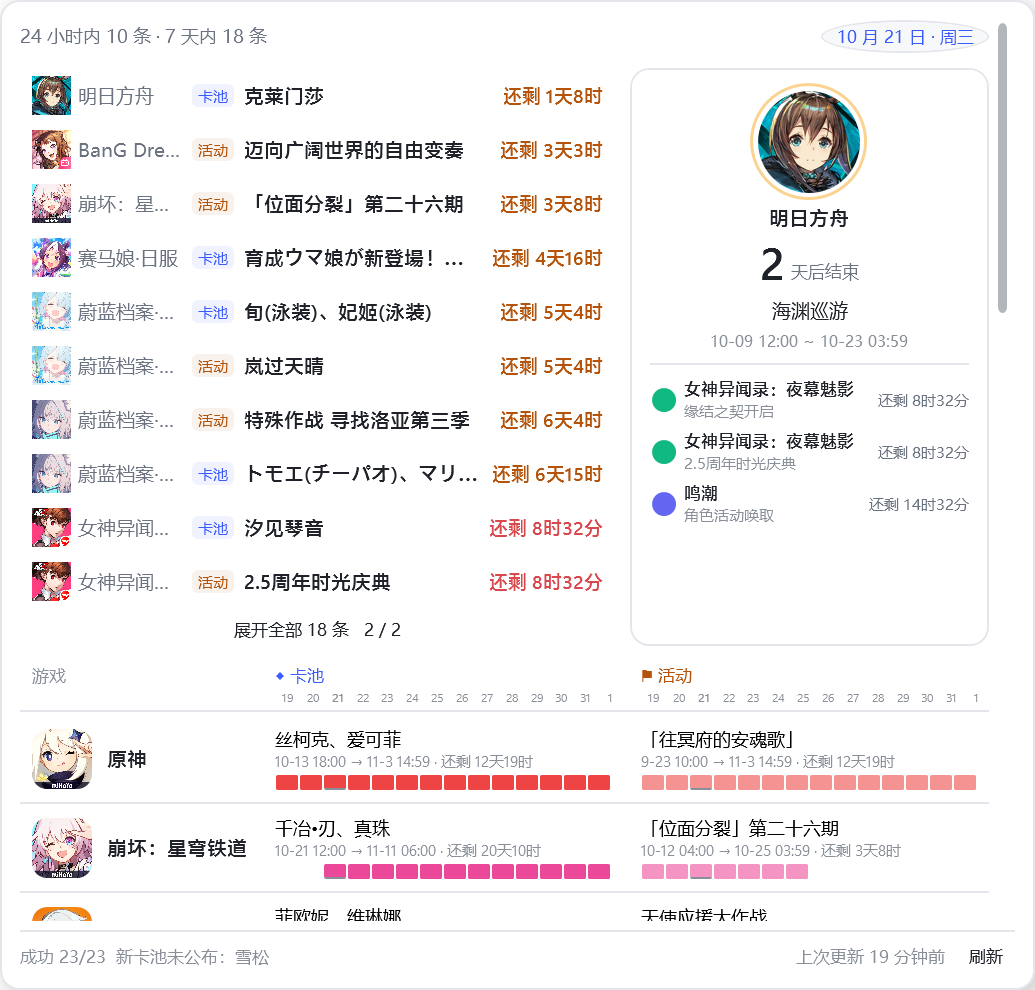
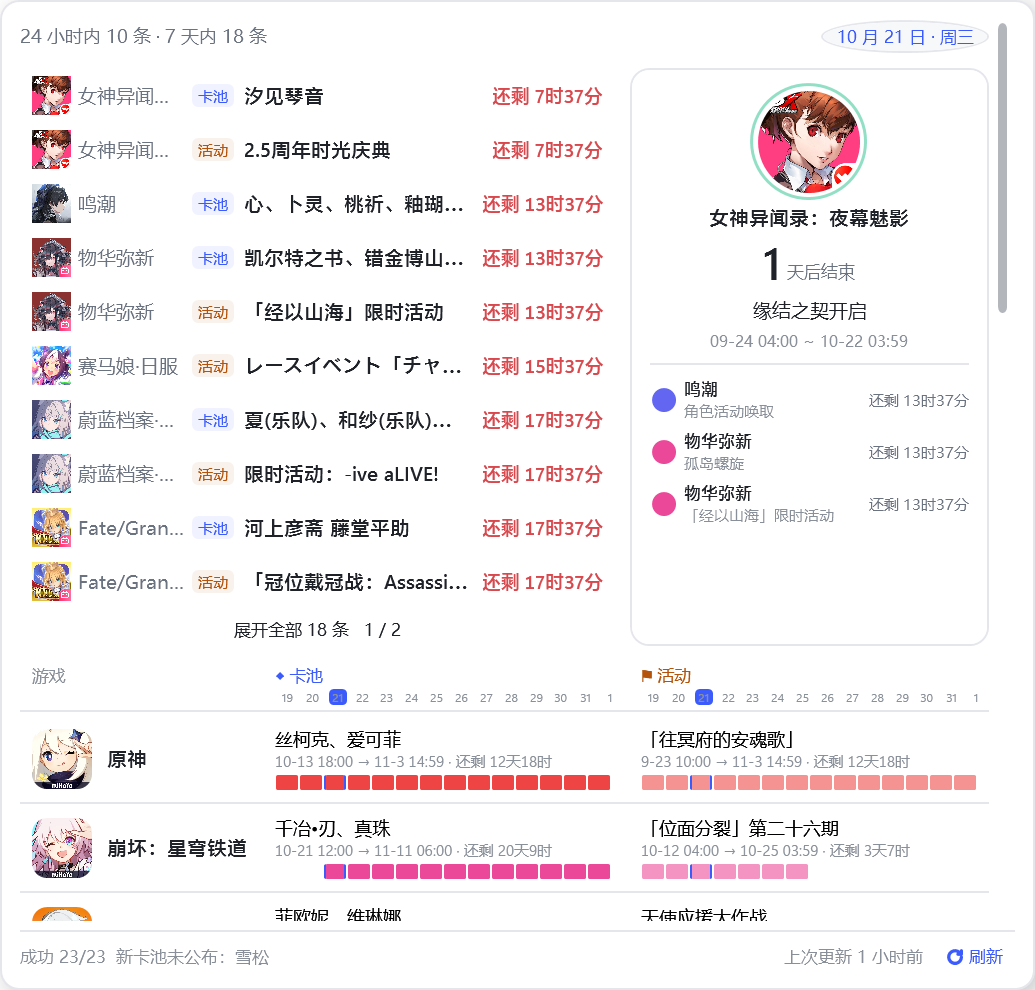
style: v0.1.25 字体、图标、开关与当天提示
- 字体 Ideal；设置页胶囊 Switch；垃圾桶/chevron/刷新图标
- 迷你条当天数字胶囊 + 条形当天列描边
- 修复 Window.RenderTransform 导致面板打不开的严重 bug
- 更新浅/深截图与视觉回归；版本 0.1.25

验证：dotnet build 0 警告 0 错误；npm test 34/34；npm run check 通过

diff --git a/src/GachaCalendar/Views/ScheduleView.xaml b/src/GachaCalendar/Views/ScheduleView.xaml
@@ -1,9 +1,9 @@
-<UserControl x:Class="GachaCalendar.Views.ScheduleView"
+<UserControl x:Class="GachaCalendar.Views.ScheduleView"
 			 xmlns="http://schemas.microsoft.com/winfx/2006/xaml/presentation"
 			 xmlns:x="http://schemas.microsoft.com/winfx/2006/xaml"
 			 UseLayoutRounding="True"
 			 SnapsToDevicePixels="True"
-			 TextOptions.TextFormattingMode="Display"
+			 TextOptions.TextFormattingMode="Ideal"
 			 TextOptions.TextRenderingMode="ClearType"
 			 FontFamily="Segoe UI Variable Text, Microsoft YaHei UI, Segoe UI">
 	<UserControl.Resources>
@@ -352,19 +352,31 @@
 						</ItemsControl.ItemsPanel>
 						<ItemsControl.ItemTemplate>
 							<DataTemplate>
-								<TextBlock Text="{Binding Day}" FontSize="8" Foreground="{DynamicResource FgFaint}" HorizontalAlignment="Center">
-									<TextBlock.Style>
-										<Style TargetType="TextBlock">
-											<Setter Property="FontWeight" Value="Normal" />
+								<Border HorizontalAlignment="Center" CornerRadius="3" Padding="2,0">
+									<Border.Style>
+										<Style TargetType="Border">
+											<Setter Property="Background" Value="Transparent" />
 											<Style.Triggers>
 												<DataTrigger Binding="{Binding Today}" Value="True">
-													<Setter Property="FontWeight" Value="SemiBold" />
-													<Setter Property="Foreground" Value="{DynamicResource Fg}" />
+													<Setter Property="Background" Value="{DynamicResource Accent}" />
 												</DataTrigger>
 											</Style.Triggers>
 										</Style>
-									</TextBlock.Style>
-								</TextBlock>
+									</Border.Style>
+									<TextBlock Text="{Binding Day}" FontSize="8" Foreground="{DynamicResource FgFaint}">
+										<TextBlock.Style>
+											<Style TargetType="TextBlock">
+												<Setter Property="FontWeight" Value="Normal" />
+												<Style.Triggers>
+													<DataTrigger Binding="{Binding Today}" Value="True">
+														<Setter Property="FontWeight" Value="SemiBold" />
+														<Setter Property="Foreground" Value="White" />
+													</DataTrigger>
+												</Style.Triggers>
+											</Style>
+										</TextBlock.Style>
+									</TextBlock>
+								</Border>
 							</DataTemplate>
 						</ItemsControl.ItemTemplate>
 					</ItemsControl>
@@ -374,19 +386,31 @@
 						</ItemsControl.ItemsPanel>
 						<ItemsControl.ItemTemplate>
 							<DataTemplate>
-								<TextBlock Text="{Binding Day}" FontSize="8" Foreground="{DynamicResource FgFaint}" HorizontalAlignment="Center">
-									<TextBlock.Style>
-										<Style TargetType="TextBlock">
-											<Setter Property="FontWeight" Value="Normal" />
+								<Border HorizontalAlignment="Center" CornerRadius="3" Padding="2,0">
+									<Border.Style>
+										<Style TargetType="Border">
+											<Setter Property="Background" Value="Transparent" />
 											<Style.Triggers>
 												<DataTrigger Binding="{Binding Today}" Value="True">
-													<Setter Property="FontWeight" Value="SemiBold" />
-													<Setter Property="Foreground" Value="{DynamicResource Fg}" />
+													<Setter Property="Background" Value="{DynamicResource Accent}" />
 												</DataTrigger>
 											</Style.Triggers>
 										</Style>
-									</TextBlock.Style>
-								</TextBlock>
+									</Border.Style>
+									<TextBlock Text="{Binding Day}" FontSize="8" Foreground="{DynamicResource FgFaint}">
+										<TextBlock.Style>
+											<Style TargetType="TextBlock">
+												<Setter Property="FontWeight" Value="Normal" />
+												<Style.Triggers>
+													<DataTrigger Binding="{Binding Today}" Value="True">
+														<Setter Property="FontWeight" Value="SemiBold" />
+														<Setter Property="Foreground" Value="White" />
+													</DataTrigger>
+												</Style.Triggers>
+											</Style>
+										</TextBlock.Style>
+									</TextBlock>
+								</Border>
 							</DataTemplate>
 						</ItemsControl.ItemTemplate>
 					</ItemsControl>
@@ -468,8 +492,8 @@
 																		<Setter Property="Background" Value="{Binding Color}" />
 																	</DataTrigger>
 																	<DataTrigger Binding="{Binding Today}" Value="True">
-																		<Setter Property="BorderBrush" Value="{DynamicResource FgFaint}" />
-																		<Setter Property="BorderThickness" Value="0,0,0,1" />
+																		<Setter Property="BorderBrush" Value="{DynamicResource Accent}" />
+																		<Setter Property="BorderThickness" Value="1,0,1,0" />
 																	</DataTrigger>
 																</Style.Triggers>
 															</Style>
@@ -522,8 +546,8 @@
 																		<Setter Property="Background" Value="{Binding Color}" />
 																	</DataTrigger>
 																	<DataTrigger Binding="{Binding Today}" Value="True">
-																		<Setter Property="BorderBrush" Value="{DynamicResource FgFaint}" />
-																		<Setter Property="BorderThickness" Value="0,0,0,1" />
+																		<Setter Property="BorderBrush" Value="{DynamicResource Accent}" />
+																		<Setter Property="BorderThickness" Value="1,0,1,0" />
 																	</DataTrigger>
 																</Style.Triggers>
 															</Style>
@@ -601,8 +625,15 @@
 						   TextTrimming="CharacterEllipsis" VerticalAlignment="Center" />
 				<TextBlock Grid.Column="1" Text="{Binding UpdatedAgo}" FontSize="11" Foreground="{DynamicResource FgFaint}"
 						   VerticalAlignment="Center" Margin="8,0" />
-				<Button Grid.Column="2" Content="刷新" Style="{StaticResource SchedLinkButton}" Click="OnRefresh"
-						Foreground="{DynamicResource Accent}" />
+				<Button Grid.Column="2" Style="{StaticResource SchedLinkButton}" Click="OnRefresh"
+						AutomationProperties.Name="刷新" ToolTip="刷新">
+					<StackPanel Orientation="Horizontal">
+						<Path Data="M21 12a9 9 0 1 1-2.64-6.36L21 8 M21 3 L21 8 L16 8"
+							  Stroke="{DynamicResource Accent}" StrokeThickness="2.2" StrokeStartLineCap="Round"
+							  StrokeEndLineCap="Round" StrokeLineJoin="Round" Width="11" Height="11" Stretch="Uniform" />
+						<TextBlock Text="刷新" Foreground="{DynamicResource Accent}" Margin="4,0,0,0" VerticalAlignment="Center" />
+					</StackPanel>
+				</Button>
 			</Grid>
 		</Border>
 	</Grid>

diff --git a/src/GachaCalendar/Views/SettingsWindow.xaml b/src/GachaCalendar/Views/SettingsWindow.xaml
@@ -1,4 +1,4 @@
-<Window x:Class="GachaCalendar.Views.SettingsWindow"
+<Window x:Class="GachaCalendar.Views.SettingsWindow"
 		xmlns="http://schemas.microsoft.com/winfx/2006/xaml/presentation"
 		xmlns:x="http://schemas.microsoft.com/winfx/2006/xaml"
 		Title="设置 — 二游日历"
@@ -7,7 +7,7 @@
 		WindowStartupLocation="CenterScreen"
 		UseLayoutRounding="True"
 		SnapsToDevicePixels="True"
-		TextOptions.TextFormattingMode="Display"
+		TextOptions.TextFormattingMode="Ideal"
 		TextOptions.TextRenderingMode="ClearType"
 		Background="{DynamicResource PanelBg}"
 		Foreground="{DynamicResource Fg}"
@@ -169,6 +169,40 @@
 			</Setter>
 		</Style>
 
+		<Style x:Key="SwitchCheckBox" TargetType="CheckBox">
+			<Setter Property="Foreground" Value="{DynamicResource Fg}" />
+			<Setter Property="FontSize" Value="12.5" />
+			<Setter Property="Template">
+				<Setter.Value>
+					<ControlTemplate TargetType="CheckBox">
+						<StackPanel Orientation="Horizontal" Background="Transparent">
+							<Border x:Name="Track" Width="38" Height="20" CornerRadius="10"
+									Background="{DynamicResource PanelBorder}" BorderBrush="{DynamicResource PanelBorder}"
+									BorderThickness="1">
+								<Ellipse x:Name="Thumb" Width="14" Height="14" Fill="{DynamicResource PanelBg}"
+										 HorizontalAlignment="Left" VerticalAlignment="Center" Margin="2,0" />
+							</Border>
+							<ContentPresenter Margin="8,0,0,0" VerticalAlignment="Center" RecognizesAccessKey="True" />
+						</StackPanel>
+						<ControlTemplate.Triggers>
+							<Trigger Property="IsMouseOver" Value="True">
+								<Setter TargetName="Track" Property="BorderBrush" Value="{DynamicResource Accent}" />
+							</Trigger>
+							<Trigger Property="IsChecked" Value="True">
+								<Setter TargetName="Track" Property="Background" Value="{DynamicResource Accent}" />
+								<Setter TargetName="Track" Property="BorderBrush" Value="{DynamicResource Accent}" />
+								<Setter TargetName="Thumb" Property="Fill" Value="White" />
+								<Setter TargetName="Thumb" Property="HorizontalAlignment" Value="Right" />
+							</Trigger>
+							<Trigger Property="IsEnabled" Value="False">
+								<Setter Property="Opacity" Value="0.45" />
+							</Trigger>
+						</ControlTemplate.Triggers>
+					</ControlTemplate>
+				</Setter.Value>
+			</Setter>
+		</Style>
+
 		<Style x:Key="SettingsThinScrollBar" TargetType="ScrollBar">
 			<Setter Property="Width" Value="8" />
 			<Setter Property="Background" Value="Transparent" />
@@ -246,7 +280,7 @@
 				<!-- 自动刷新 -->
 				<Border Style="{StaticResource Card}">
 					<StackPanel>
-						<CheckBox x:Name="AutoRefreshCheck" Content="自动刷新" FontSize="12"
+						<CheckBox x:Name="AutoRefreshCheck" Content="自动刷新" Style="{StaticResource SwitchCheckBox}"
 								  Checked="OnAutoRefreshChanged" Unchecked="OnAutoRefreshChanged" />
 						<StackPanel Orientation="Horizontal" Margin="0,10,0,0">
 							<TextBlock Text="刷新频率" FontSize="12" VerticalAlignment="Center" />
@@ -261,7 +295,7 @@
 				<!-- 实验特性 -->
 				<Border Style="{StaticResource Card}" BorderBrush="{DynamicResource Accent}" BorderThickness="1">
 					<StackPanel>
-						<CheckBox x:Name="NewPanelCheck" Content="实验性新版 UI（日程视图）" FontSize="12"
+						<CheckBox x:Name="NewPanelCheck" Content="实验性新版 UI（日程视图）" Style="{StaticResource SwitchCheckBox}"
 								  Checked="OnNewPanelChanged" Unchecked="OnNewPanelChanged" />
 						<TextBlock Style="{StaticResource Hint}" Margin="0,6,0,0"
 								   Text="启用 DSH 实验版：日期胶囊、近期紧迫列表、时间轴日程表。默认关闭。" />

diff --git a/src/GachaCalendar/Views/FlyoutWindow.xaml b/src/GachaCalendar/Views/FlyoutWindow.xaml
@@ -1,4 +1,4 @@
-<Window x:Class="GachaCalendar.Views.FlyoutWindow"
+<Window x:Class="GachaCalendar.Views.FlyoutWindow"
 		xmlns="http://schemas.microsoft.com/winfx/2006/xaml/presentation"
 		xmlns:x="http://schemas.microsoft.com/winfx/2006/xaml"
 		xmlns:controls="clr-namespace:GachaCalendar.Controls"
@@ -14,7 +14,7 @@
 		WindowStartupLocation="Manual"
 		UseLayoutRounding="True"
 		SnapsToDevicePixels="True"
-		TextOptions.TextFormattingMode="Display"
+		TextOptions.TextFormattingMode="Ideal"
 		TextOptions.TextRenderingMode="ClearType"
 		FontFamily="Segoe UI Variable Text, Microsoft YaHei UI, Segoe UI">
 	<Window.Resources>
@@ -141,7 +141,8 @@
 					<TextBlock Text="二游日历" FontSize="13" FontWeight="SemiBold" VerticalAlignment="Center" />
 					<StackPanel Grid.Column="1" Orientation="Horizontal">
 						<Button Style="{StaticResource DshRefreshButton}" IsEnabled="{Binding CanRefresh}"
-								ToolTip="{Binding RefreshTip}" Click="OnRefresh" Margin="0,0,4,0">
+								ToolTip="{Binding RefreshTip}" Click="OnRefresh" Margin="0,0,4,0"
+								AutomationProperties.Name="刷新">
 							<Path x:Name="RefreshIcon" Data="M21 12a9 9 0 1 1-2.64-6.36L21 8 M21 3 L21 8 L16 8"
 								  Stroke="{DynamicResource Fg}" StrokeThickness="2.2" StrokeStartLineCap="Round"
 								  StrokeEndLineCap="Round" StrokeLineJoin="Round" Width="13" Height="13" Stretch="Uniform"

diff --git a/src/GachaCalendar/Views/DockStripWindow.xaml b/src/GachaCalendar/Views/DockStripWindow.xaml
@@ -1,4 +1,4 @@
-<Window x:Class="GachaCalendar.Views.DockStripWindow"
+<Window x:Class="GachaCalendar.Views.DockStripWindow"
 		xmlns="http://schemas.microsoft.com/winfx/2006/xaml/presentation"
 		xmlns:x="http://schemas.microsoft.com/winfx/2006/xaml"
 		Title="二游日历"
@@ -14,7 +14,7 @@
 		WindowStartupLocation="Manual"
 		UseLayoutRounding="True"
 		SnapsToDevicePixels="True"
-		TextOptions.TextFormattingMode="Display"
+		TextOptions.TextFormattingMode="Ideal"
 		TextOptions.TextRenderingMode="ClearType"
 		FontFamily="Segoe UI Variable Text, Microsoft YaHei UI, Segoe UI"
 		Focusable="False">

diff --git a/src/GachaCalendar/Views/SettingsWindow.xaml.cs b/src/GachaCalendar/Views/SettingsWindow.xaml.cs
@@ -214,14 +214,15 @@ public partial class SettingsWindow : Window
 			grid.Children.Add(eventCombo);
 
 			var actions = new StackPanel { Orientation = Orientation.Horizontal, HorizontalAlignment = HorizontalAlignment.Center };
-			var up = SmallButton("↑", "上移");
+			var up = SmallIconButton("M2,8 L7,3 L12,8", "上移", (Brush)FindResource("Fg"));
 			up.IsEnabled = index > 0;
 			up.Click += async (_, _) => await MoveAsync(entry.Id, -1);
-			var down = SmallButton("↓", "下移");
+			var down = SmallIconButton("M2,4 L7,9 L12,4", "下移", (Brush)FindResource("Fg"));
 			down.IsEnabled = index < _entries.Count - 1;
 			down.Click += async (_, _) => await MoveAsync(entry.Id, 1);
-			var delete = SmallButton("删", "删除");
-			delete.Foreground = (Brush)FindResource("Danger");
+			var delete = SmallIconButton(
+				"M4,5 H16 M7,5 V3 H13 V5 M6,5 L7,18 H13 L14,5 M9,8 V15 M12,8 V15",
+				"删除", (Brush)FindResource("Danger"));
 			delete.Click += async (_, _) =>
 			{
 				await RunWriteAsync(async () =>
@@ -735,7 +736,7 @@ public partial class SettingsWindow : Window
 		return (Brush)new BrushConverter().ConvertFromString(palette[hash % palette.Length])!;
 	}
 
-	private Button SmallButton(string content, string tooltip)	{
+	private Button SmallButton(object content, string tooltip)	{
 		var button = new Button
 		{
 			Content = content,
@@ -745,7 +746,25 @@ public partial class SettingsWindow : Window
 			MinWidth = 24,
 			Padding = new Thickness(4, 0, 4, 0),
 		};
+		System.Windows.Automation.AutomationProperties.SetName(button, tooltip);
 		return button;
+	}
+
+	private Button SmallIconButton(string data, string tooltip, Brush stroke)
+	{
+		var icon = new System.Windows.Shapes.Path
+		{
+			Data = System.Windows.Media.Geometry.Parse(data),
+			Stroke = stroke,
+			StrokeThickness = 1.5,
+			StrokeStartLineCap = PenLineCap.Round,
+			StrokeEndLineCap = PenLineCap.Round,
+			StrokeLineJoin = PenLineJoin.Round,
+			Width = 14,
+			Height = 14,
+			Stretch = Stretch.Uniform,
+		};
+		return SmallButton(icon, tooltip);
 	}
 
 	private static bool IsCustomMode(string? value) =>

diff --git a/src/GachaCalendar/Views/FlyoutWindow.xaml.cs b/src/GachaCalendar/Views/FlyoutWindow.xaml.cs
@@ -83,13 +83,12 @@ public partial class FlyoutWindow : Window
 	{
 		Height = Math.Min(660, Math.Max(360, SystemParameters.WorkArea.Height * 0.72));
 		Opacity = 0;
-		var slide = new TranslateTransform(0, 8);
-		RenderTransform = slide;
 		Show();
 		Activate();
-		var ease = new QuadraticEase { EasingMode = EasingMode.EaseOut };
-		BeginAnimation(OpacityProperty, new DoubleAnimation(0, 1, TimeSpan.FromMilliseconds(180)) { EasingFunction = ease });
-		slide.BeginAnimation(TranslateTransform.YProperty, new DoubleAnimation(8, 0, TimeSpan.FromMilliseconds(180)) { EasingFunction = ease });
+		BeginAnimation(OpacityProperty, new DoubleAnimation(0, 1, TimeSpan.FromMilliseconds(180))
+		{
+			EasingFunction = new QuadraticEase { EasingMode = EasingMode.EaseOut },
+		});
 		Dispatcher.BeginInvoke(DispatcherPriority.Loaded, new Action(() =>
 		{
 			UpdateLayout();

diff --git a/docs/04-路线图.md b/docs/04-路线图.md
@@ -242,7 +242,16 @@ Fluent/DSH 风格外观已列入 [BACKLOG.md](../BACKLOG.md)。
 - [x] 更新设置浅/深截图与视觉回归
 - [ ] 主面板字重/行距继续贴近 DSH
 
-## v0.1.25 · 任务栏体验打磨
+## v0.1.25 · 字体、图标、开关与当天提示（2026-10-21）
+
+- [x] 字体渲染切到 Ideal，低 DPI 更柔和
+- [x] 设置页胶囊 Switch
+- [x] 删除垃圾桶 / 上下移 chevron / newPanel 刷新图标
+- [x] 迷你条当天数字胶囊 + 条形当天列描边
+- [x] 修复 Window.RenderTransform 导致面板打不开的严重 bug
+- [x] 更新浅/深截图与视觉回归
+
+## v0.1.26 · 任务栏体验打磨
 
 - [ ] 多显示器：主屏 / 每屏一份（设置项）
 - [ ] 任务栏自动隐藏时跟随（贴屏幕边缘而非消失）
@@ -252,7 +261,7 @@ Fluent/DSH 风格外观已列入 [BACKLOG.md](../BACKLOG.md)。
 - [ ] 点击外部关闭面板、Esc、快捷键（可选 Win+Alt+G）
 - [ ] 电源/锁屏/睡眠恢复后的任务栏重定位
 
-## v0.1.26 · 分发工程化
+## v0.1.27 · 分发工程化
 
 - [ ] `publish` 脚本：自包含 single-file zip + 框架依赖 zip
 - [ ] 安装包（Inno Setup 或 MSIX）：开始菜单、卸载清理自启项
@@ -261,7 +270,7 @@ Fluent/DSH 风格外观已列入 [BACKLOG.md](../BACKLOG.md)。
 - [ ] 性能预算：空闲内存 ≤ 120MB、CPU ≤ 0.1%、启动 ≤ 2s
 - [ ] 首次运行引导：数据从哪来、如何刷新、如何关掉原生小组件避免重叠
 
-## v0.1.27 · 商店与打磨
+## v0.1.28 · 商店与打磨
 
 - [ ] 代码签名（SmartScreen）
 - [ ] Microsoft Store / MSIX 上架评估

diff --git a/CHANGELOG.md b/CHANGELOG.md
@@ -1,5 +1,15 @@
 # CHANGELOG
 
+## v0.1.25 · 2026-10-21
+
+- 字体：`TextFormattingMode` 改为 Ideal，配合 Segoe UI Variable/雅黑回退，低 DPI 更柔和
+- 开关：设置页「自动刷新 / 实验性新版 UI」改为胶囊 Switch
+- 图标：删除改为垃圾桶、上/下移改为 chevron、newPanel 刷新改为图标+文字
+- 迷你条当天提示：刻度当天数字加主题色胶囊，条形当天列加主题色描边
+- 修复严重 bug：面板入场动画设置 Window.RenderTransform 导致
+  `InvalidOperationException: 转换对于 Window 无效`，面板打不开/截图为空白；改为只做透明度淡入
+- 更新浅/深 newPanel、设置、视觉回归截图；版本 0.1.25
+
 ## v0.1.24 · 2026-10-21
 
 - newPanel 探头：不再鼠标一移出单元格就关闭；改为「移到另一格才切换 / 点击外部关闭」，

diff --git a/README.md b/README.md
@@ -50,7 +50,7 @@
 | 深浅色 token / 视觉验收清单 | ✅ v0.1.10（[验收清单](docs/11-DSH面板复刻验收.md)） |
 | 实验性 newPanel（日程视图） | 🚧 v0.1.12 基础版（设置页可开启） |
 | 颜色取色器 / DPI 截图 / 内置 Node 打包 | ✅ v0.1.13–0.1.14（`tools/publish.ps1`） |
-| 视觉打磨 / 新控件 / 小屏设置窗口 | ✅ v0.1.16–0.1.24（含深色/标题栏视觉回归） |
+| 视觉打磨 / 新控件 / 小屏设置窗口 | ✅ v0.1.16–0.1.25（含深色/标题栏视觉回归） |
 | Fluent / DSH 交互细节与视觉回归 | 📋 待办（[#1](https://github.com/EastMG/gacha-calendar/issues/1) / [BACKLOG.md](BACKLOG.md)） |
 | 多显示器、轮播、安装包 | 🚧 v0.1.10+（见[路线图](docs/04-路线图.md)） |
 
